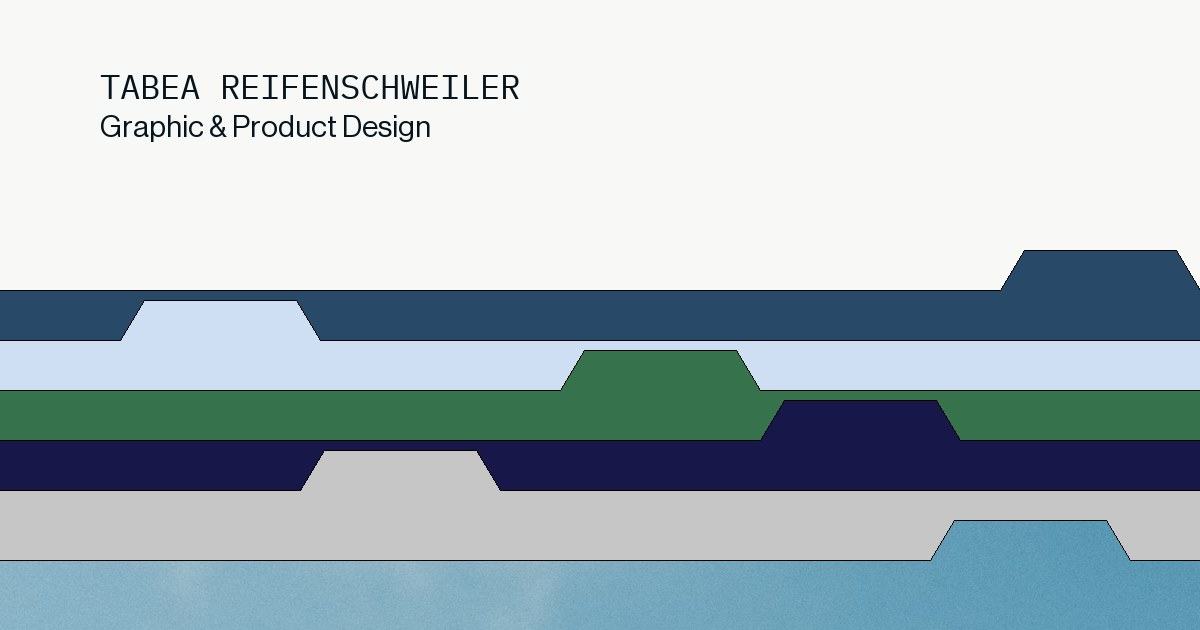
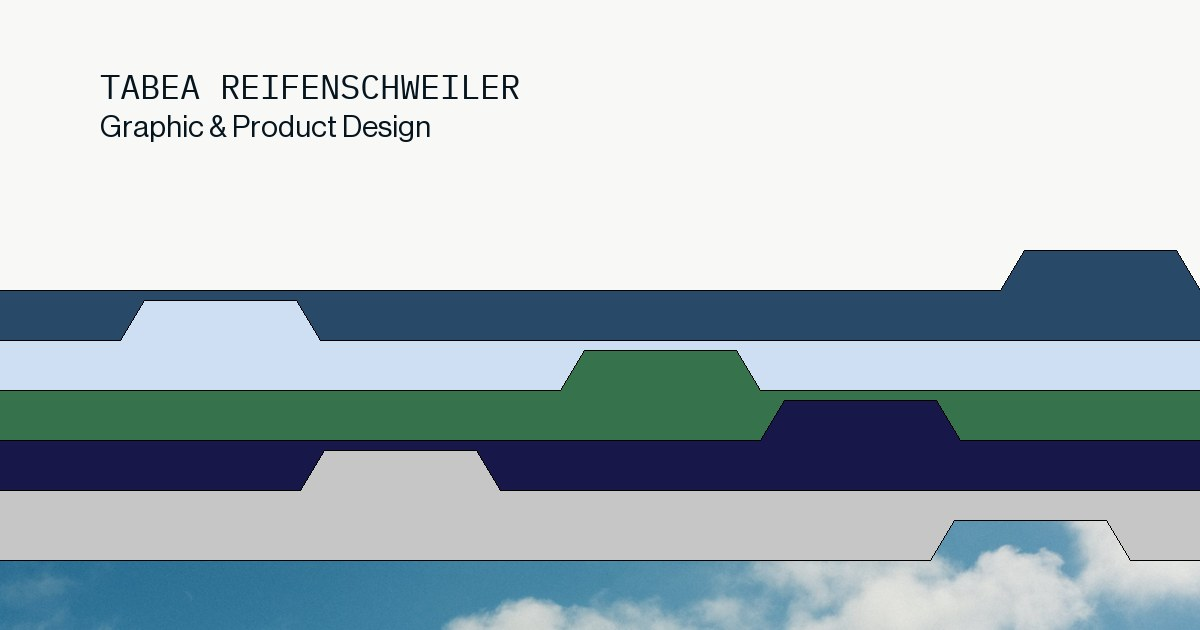
n

Changed region(s): [[0.0, 0.8143, 1.0, 1.0]]

diff --git a/graphic-start.js b/graphic-start.js
@@ -389,12 +389,11 @@
      Korpus läuft randlos über die 504 Einheiten. Das Deckelfoto wird als
      Ausschnitt (slice) in den Korpus gelegt. */
   const MOB_W = 504, MOB_MARGIN = 36;
-  const MOB_SLOT = 78;                 /* Registerschritt: Reiter (70.57) bleibt ganz sichtbar */
+  const MOB_SLOT = 96;                 /* Registerschritt: Reiter (70.57) ganz sichtbar plus Luft */
   function layoutMobile(vbH) {
-    const projs = stack.filter(f => f.key !== 'front');
     const slot = MOB_SLOT;
-    /* Stapel hängt unten: Deckelkorpus ~24 % der Höhe, darüber die Register */
-    const top = Math.max(0.2 * vbH, vbH - ((stack.length - 1) * slot + 70.57 + 0.24 * vbH));
+    /* Stapel hängt unten: Deckelkorpus ~22 % der Höhe, darüber die Register */
+    const top = Math.max(0.18 * vbH, vbH - ((stack.length - 1) * slot + 70.57 + 0.22 * vbH));
     stack.forEach((f, i) => {
       const v = f.base, ys = v.filter((_, n) => n % 2), xs = v.filter((_, n) => n % 2 === 0);
       const yTab = Math.min(...ys), yBody = [...new Set(ys)].sort((a, b) => a - b)[1];
@@ -402,8 +401,8 @@
       /* Reiter: vier x-Werte zwischen den Korpuskanten (-2 / 1922) */
       const inner = [...new Set(xs)].filter(x => x > 0 && x < 1920).sort((a, b) => a - b);
       const baseL = inner[0], baseW = inner[inner.length - 1] - inner[0];
-      const right = f.key === 'front' ? true : projs.indexOf(f) % 2 === 0;
-      const newL = right ? MOB_W - MOB_MARGIN - baseW : MOB_MARGIN;
+      /* Reiter mittig auf der Seite; Form und Logo-Lage im Reiter bleiben (Gruppe) */
+      const newL = (MOB_W - baseW) / 2;
       const pts = new Array(v.length);
       for (let n = 0; n < v.length; n += 2) {
         const x = v[n], y = v[n + 1];
@@ -473,10 +472,10 @@
     });
     /* Deckelfoto: Oberkante auf den Deckelreiter, Parallax-Drehpunkt in die Mitte */
     if (coverImg) {
-      coverImg.removeAttribute('x'); coverImg.removeAttribute('y');
-      coverImg.setAttribute('width', 3000); coverImg.setAttribute('height', 750);
-      coverImg.setAttribute('preserveAspectRatio', 'none');
-      coverImg.setAttribute('transform', `translate(-1 ${frontTop.toFixed(2)}) scale(1.0562)`);
+      coverImg.removeAttribute('transform');
+      coverImg.setAttribute('x', -1); coverImg.setAttribute('y', frontTop.toFixed(2));
+      coverImg.setAttribute('width', 1922); coverImg.setAttribute('height', (vbH - frontTop + 2).toFixed(2));
+      coverImg.setAttribute('preserveAspectRatio', 'xMidYMid slice');
       cover.style.transformOrigin = `960px ${((frontTop + vbH) / 2).toFixed(1)}px`;
     }
     /* Fußzeile: Vektortext und Klickflächen um (vbH − 1080) versetzen */
@@ -804,14 +803,7 @@
     function prepareMobile() {
       if (mobPrepared || !stack) return; mobPrepared = true;
       stack.style.setProperty('--ratio', ratioOf(figs.find(f => +f.dataset.i === 0) || figs[0]));
-      /* Scrollreserve am Ende, damit auch die Bilder des letzten Abschnitts
-         erreichbar sind (je weiterem Bild ein halber Bildschirm) */
-      for (const block of panel.querySelectorAll('.pv-text--2 > [data-lang-block]')) {
-        const secs = [...block.querySelectorAll('.pv-sec')]; if (!secs.length) continue;
-        const last = secs[secs.length - 1];
-        const extra = (N - 1) - +last.dataset.sec;
-        if (extra > 0) last.style.paddingBottom = (extra * 50) + 'vh';
-      }
+
     }
     let mobStep = -1;
     function showFig(i) {
@@ -823,25 +815,26 @@
       if (!isMobile() || panel.hidden || !stack) return;
       const block = [...panel.querySelectorAll('.pv-text--2 > [data-lang-block]')].find(b => getComputedStyle(b).display !== 'none');
       if (!block) return;
-      const secs = [...block.querySelectorAll('.pv-sec')];
-      const edge = stack.getBoundingClientRect().bottom + 24;
+      const secs = [...block.querySelectorAll('.pv-sec')]; if (!secs.length) { showFig(0); return; }
+      const edge = stack.getBoundingClientRect().bottom + 24, st = panel.scrollTop;
+      /* Scrollposition, bei der jeder Abschnitt oben an der Bildunterkante ankommt */
+      const starts = secs.map(s => st + s.getBoundingClientRect().top - edge);
+      const lastR = secs[secs.length - 1].getBoundingClientRect();
+      const end = starts[starts.length - 1] + lastR.height;
+      /* Ist das Blatt kürzer als diese Strecke (kurze Projekte), wird sie auf
+         den tatsächlichen Scrollweg gestaucht: die Bilder wechseln dann
+         entsprechend früher, alle bleiben erreichbar, kein Leerraum nötig */
+      const max = Math.max(1, panel.scrollHeight - panel.clientHeight);
+      const eff = end > max ? st * (end / max) : st;
       let k = -1;
-      secs.forEach((s, n) => { if (s.getBoundingClientRect().top < edge) k = n; });
+      starts.forEach((s0, n) => { if (eff >= s0) k = n; });
       if (k < 0) { showFig(0); return; }
       const cur = secs[k], last = k === secs.length - 1;
       const a = +cur.dataset.sec, b = last ? N - 1 : +(cur.dataset.until || cur.dataset.sec);
       const count = b - a + 1;
       if (count <= 1) { showFig(a); return; }
-      const top = cur.getBoundingClientRect().top;
-      let progress;
-      if (last) {
-        /* letzter Abschnitt: seine Strecke reicht bis zum Scrollende */
-        const s0 = panel.scrollTop + top - edge, sEnd = panel.scrollHeight - panel.clientHeight;
-        progress = (panel.scrollTop - s0) / Math.max(1, sEnd - s0);
-      } else {
-        progress = (edge - top) / Math.max(1, secs[k + 1].getBoundingClientRect().top - top);
-      }
-      progress = Math.max(0, Math.min(.999, progress));
+      const len = last ? lastR.height : starts[k + 1] - starts[k];
+      const progress = Math.max(0, Math.min(.999, (eff - starts[k]) / Math.max(1, len)));
       showFig(a + Math.floor(progress * count));
     }
     panel.addEventListener('scroll', onScroll, { passive: true });

diff --git a/project-system.css b/project-system.css
@@ -355,7 +355,7 @@ body.proj-open { overflow: hidden; }
   .pv-sheet {
     position: relative; left: 0; translate: none; width: auto; height: auto;
     display: flex; flex-direction: column;
-    padding: 0 calc(var(--uw) * 36) calc(var(--uw) * 80);
+    padding: 0 calc(var(--uw) * 36) calc(var(--uw) * 56);
   }
   .pv-sheet > * { position: static; }
 
@@ -380,13 +380,13 @@ body.proj-open { overflow: hidden; }
   .pv-text--2 { order: 3; }
   .pv-text p { margin: 0 0 calc(var(--uw) * 20); }
   .pv-text p:last-child { margin-bottom: 0; }
-  .pv-text h2 { font-size: clamp(14px, calc(var(--uw) * 18), 17px); margin: 0 0 calc(var(--uw) * 10); }
-  .pv-text h3 { font-size: clamp(13px, calc(var(--uw) * 16), 16px); margin: calc(var(--uw) * 24) 0 calc(var(--uw) * 8); }
+  .pv-text h2 { font-size: clamp(17px, calc(var(--uw) * 23), 22px); margin: 0 0 calc(var(--uw) * 12); }
+  .pv-text h3 { font-size: clamp(15px, calc(var(--uw) * 19), 18px); margin: calc(var(--uw) * 24) 0 calc(var(--uw) * 8); }
   .pv-sec, .pv-sub, .pv-sec.is-off { display: block !important; opacity: 1 !important; }
   .pv-sec { margin-top: var(--sec-gap); }
   .pv-sec h2, .proj--v2[data-mode="swap"] .pv-sec h2 { margin-top: 0; }
-  .pv-meta { grid-template-columns: calc(var(--uw) * 150) 1fr; margin-top: calc(var(--uw) * 32); row-gap: calc(var(--uw) * 6); }
-  .pv-meta dt { font-size: clamp(13px, calc(var(--uw) * 16), 16px); }
+  .pv-meta { grid-template-columns: calc(var(--uw) * 170) 1fr; margin-top: calc(var(--uw) * 32); row-gap: calc(var(--uw) * 8); }
+  .pv-meta dt { font-size: clamp(15px, calc(var(--uw) * 19), 18px); }
 }
 /* Handy quer: Band und Reiter in Vorlagen-Einheiten (Stapel läuft dort auf 1920) */
 @media (max-height: 519px) and (orientation: landscape) {

diff --git a/index.html b/index.html
@@ -28,7 +28,7 @@
   </script>
   <!-- seo:end -->
   <link rel="stylesheet" href="graphic-start.css?v=61">
-  <link rel="stylesheet" href="project-system.css?v=35">
+  <link rel="stylesheet" href="project-system.css?v=36">
 </head>
 <body data-page="graphic">
   <h1 class="sr-only">Tabea Reifenschweiler – Graphic and Product Design, Stuttgart</h1>
@@ -195,7 +195,7 @@
     <polygon class="fdr-base" points="-1 1081 1921 1081 1921 561.87 1810.53 561.87 1773.55 491.3 1554.51 491.3 1517.53 561.87 -1 561.87 -1 1081"/>
     <g class="fdr-tex">
       <clipPath id="clip-front"><polygon class="fdr-clip" points="-1 1081 1921 1081 1921 561.87 1810.53 561.87 1773.55 491.3 1554.51 491.3 1517.53 561.87 -1 561.87 -1 1081"/></clipPath>
-      <g clip-path="url(#clip-front)"><g class="front-photo"><image href="img/front-folder.jpg" width="3000" height="750" transform="translate(-1 491.3) scale(1.0562)" preserveAspectRatio="none"/></g></g>
+      <g clip-path="url(#clip-front)"><g class="front-photo"><image href="img/front-folder.jpg?v=2" x="-1" y="491.3" width="1922" height="590" preserveAspectRatio="xMidYMid slice"/></g></g>
       <polygon class="fdr-body" fill="none" stroke="#000" stroke-width="2" stroke-miterlimit="10" points="-1 1081 1921 1081 1921 561.87 1810.53 561.87 1773.55 491.3 1554.51 491.3 1517.53 561.87 -1 561.87 -1 1081"/>
     </g>
   </g>
@@ -841,7 +841,7 @@
     </div>
   </aside>
 
-  <script src="graphic-start.js?v=52"></script>
+  <script src="graphic-start.js?v=54"></script>
   <script src="consent.js?v=1" defer></script>
 </body>
 </html>

diff --git a/product.html b/product.html
@@ -28,7 +28,7 @@
   </script>
   <!-- seo:end -->
   <link rel="stylesheet" href="graphic-start.css?v=61">
-  <link rel="stylesheet" href="project-system.css?v=35">
+  <link rel="stylesheet" href="project-system.css?v=36">
 </head>
 <body data-page="produkt">
   <div class="screen">
@@ -139,7 +139,7 @@
           <polygon class="fdr-base" points="-1 1081 1921 1081 1921 561.87 1810.53 561.87 1773.55 491.3 1554.51 491.3 1517.53 561.87 -1 561.87 -1 1081"/>
           <g class="fdr-tex">
             <clipPath id="clip-front"><polygon class="fdr-clip" points="-1 1081 1921 1081 1921 561.87 1810.53 561.87 1773.55 491.3 1554.51 491.3 1517.53 561.87 -1 561.87 -1 1081"/></clipPath>
-            <g clip-path="url(#clip-front)"><g class="front-photo"><image href="img/front-folder.jpg" width="3000" height="750" transform="translate(-1 491.3) scale(1.0562)" preserveAspectRatio="none"/></g></g>
+            <g clip-path="url(#clip-front)"><g class="front-photo"><image href="img/front-folder.jpg?v=2" x="-1" y="491.3" width="1922" height="590" preserveAspectRatio="xMidYMid slice"/></g></g>
             <polygon class="fdr-body" fill="none" stroke="#000" stroke-width="2" stroke-miterlimit="10" points="-1 1081 1921 1081 1921 561.87 1810.53 561.87 1773.55 491.3 1554.51 491.3 1517.53 561.87 -1 561.87 -1 1081"/>
           </g>
         </g>
@@ -322,7 +322,7 @@
     </div>
   </aside>
 
-  <script src="graphic-start.js?v=52"></script>
+  <script src="graphic-start.js?v=54"></script>
   <script src="consent.js?v=1" defer></script>
 </body>
 </html>

diff --git a/who.html b/who.html
@@ -28,7 +28,7 @@
   </script>
   <!-- seo:end -->
   <link rel="stylesheet" href="graphic-start.css?v=61">
-  <link rel="stylesheet" href="project-system.css?v=35">
+  <link rel="stylesheet" href="project-system.css?v=36">
 </head>
 <body data-page="who" class="page--who">
   <!-- Kopfzeile: derselbe SVG-Streifen wie auf den anderen Seiten -->
@@ -269,7 +269,7 @@
     </div>
   </aside>
 
-  <script src="graphic-start.js?v=52"></script>
+  <script src="graphic-start.js?v=54"></script>
   <script src="consent.js?v=1" defer></script>
 </body>
 </html>

diff --git a/imprint.html b/imprint.html
@@ -331,7 +331,7 @@
     </div>
   </aside>
 
-  <script src="graphic-start.js?v=52"></script>
+  <script src="graphic-start.js?v=54"></script>
   <script src="consent.js?v=1" defer></script>
 </body>
 </html>
